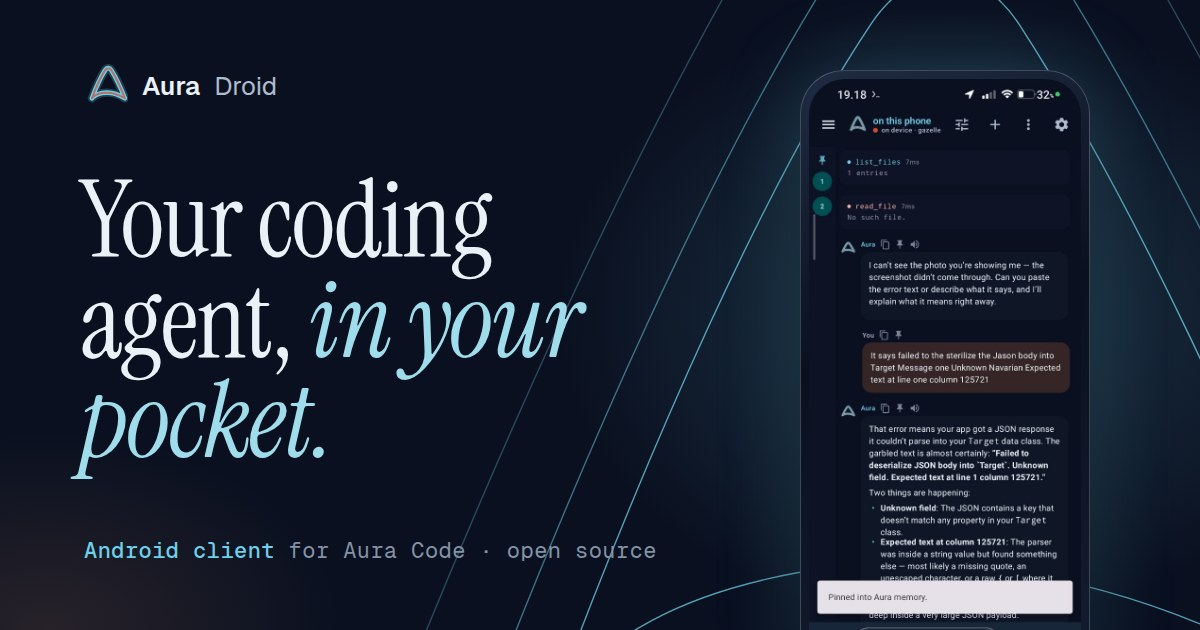
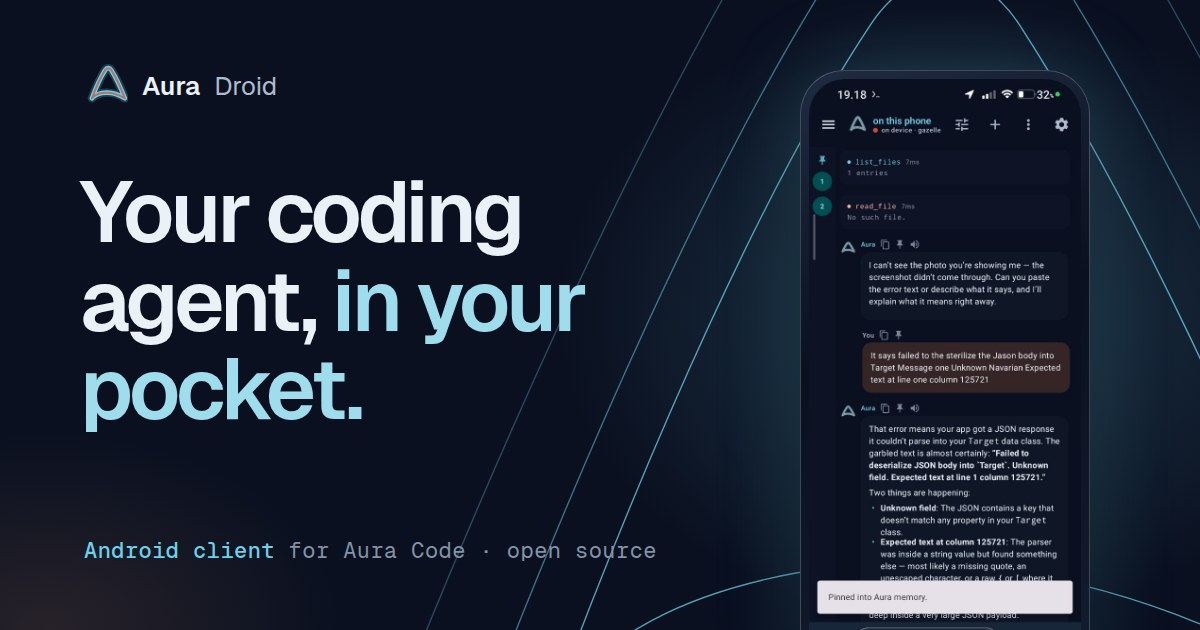
Modern site: straight, upright type instead of the serif and italics
Feedback: use a different, straighter font on the modern site.

- Headings move from Instrument Serif (with italic accents) to Geist 600 with
  tight tracking; accent phrases keep the cyan colour but no longer slant
- All display sizes retuned for the wider face; em is upright everywhere and
  bold where it emphasises a term in body copy
- Remove the now-unused Instrument Serif font files and preload
- Regenerate modern/og.jpg with the new headline

Only /modern/ changes; the root site and the retro edition are untouched.

Claude-Session: https://claude.ai/code/session_01PfWQs6xqarbYgne8YvJPWf

Changed region(s): [[0.0617, 0.2714, 0.4933, 0.754]]

diff --git a/modern/index.html b/modern/index.html
@@ -23,12 +23,9 @@
   <meta name="twitter:title" content="Aura Droid — Your coding agent, in your pocket.">
   <meta name="twitter:description" content="The Android client for Aura Code. Pair it with your PC or run it on the phone alone.">
   <meta name="twitter:image" content="https://aura-droid.vercel.app/modern/og.jpg?v=2">
-  <link rel="preload" href="/site-assets/fonts/instrument-serif.woff2" as="font" type="font/woff2" crossorigin>
   <link rel="preload" href="/site-assets/fonts/geist.woff2" as="font" type="font/woff2" crossorigin>
   <script>document.documentElement.classList.add('js')</script>
   <style>
-    @font-face { font-family: 'Instrument Serif'; font-style: normal; font-weight: 400; font-display: swap; src: url(/site-assets/fonts/instrument-serif.woff2) format('woff2'); }
-    @font-face { font-family: 'Instrument Serif'; font-style: italic; font-weight: 400; font-display: swap; src: url(/site-assets/fonts/instrument-serif-italic.woff2) format('woff2'); }
     @font-face { font-family: 'Geist'; font-style: normal; font-weight: 400 700; font-display: swap; src: url(/site-assets/fonts/geist.woff2) format('woff2'); }
     @font-face { font-family: 'Geist Mono'; font-style: normal; font-weight: 400 500; font-display: swap; src: url(/site-assets/fonts/geist-mono.woff2) format('woff2'); }
 
@@ -48,7 +45,6 @@
       --glow: #FFC08A;
       --line: rgba(174, 188, 205, .14);
       --line-2: rgba(174, 188, 205, .28);
-      --serif: 'Instrument Serif', 'Iowan Old Style', Georgia, serif;
       --sans: 'Geist', ui-sans-serif, system-ui, -apple-system, 'Segoe UI', Roboto, sans-serif;
       --mono: 'Geist Mono', ui-monospace, 'SF Mono', Menlo, Consolas, monospace;
       --wrap: 1180px;
@@ -76,9 +72,11 @@
     /* ── Type ──────────────────────────────────────────────────────────── */
     .eyebrow { display: inline-flex; align-items: center; gap: 10px; font: 500 12px/1 var(--mono); letter-spacing: .12em; text-transform: uppercase; color: var(--cyan); }
     .eyebrow::before { content: ''; width: 22px; height: 1px; background: currentColor; opacity: .7; }
-    .display { font-family: var(--serif); font-weight: 400; letter-spacing: -.015em; line-height: .98; }
-    .display em { font-style: italic; color: var(--cyan-soft); }
-    h2.display { font-size: clamp(40px, 5.6vw, 76px); }
+    .display { font-family: var(--sans); font-weight: 600; letter-spacing: -.045em; line-height: 1.02; }
+    em { font-style: normal; }
+    .note em, details p em { color: var(--cream); font-weight: 600; }
+    .display em { color: var(--cyan-soft); }
+    h2.display { font-size: clamp(34px, 4.8vw, 62px); }
     .lede { font-size: clamp(17px, 1.5vw, 19px); color: var(--dim); max-width: 54ch; }
     .mono { font-family: var(--mono); }
     .pill { display: inline-block; padding: 3px 8px; border: 1px solid var(--line-2); border-radius: 999px; font: 500 11px/1.3 var(--mono); letter-spacing: .04em; color: var(--copper); white-space: nowrap; vertical-align: middle; }
@@ -112,7 +110,7 @@
       radial-gradient(60% 55% at 78% 42%, rgba(110, 208, 234, .13), transparent 70%),
       radial-gradient(40% 40% at 8% 96%, rgba(217, 142, 99, .10), transparent 70%); pointer-events: none; }
     .hero-grid { position: relative; display: grid; grid-template-columns: minmax(0, 1.08fr) minmax(0, .92fr); gap: clamp(24px, 4vw, 64px); align-items: center; }
-    .hero h1 { margin: 22px 0 26px; font-size: clamp(56px, 8.4vw, 124px); }
+    .hero h1 { margin: 22px 0 26px; font-size: clamp(46px, 6.9vw, 98px); }
     .hero .lede { max-width: 46ch; }
     .hero-cta { display: flex; flex-wrap: wrap; gap: 12px; margin-top: 36px; }
     .facts { display: flex; flex-wrap: wrap; gap: 8px; margin-top: 32px; }
@@ -151,7 +149,7 @@
     .strip { border-block: 1px solid var(--line); background: rgba(16, 26, 44, .5); }
     .strip-in { display: flex; flex-wrap: wrap; align-items: center; gap: 14px 40px; padding: 22px 0; }
     .strip-label { font: 500 12px/1.3 var(--mono); letter-spacing: .1em; text-transform: uppercase; color: var(--mute); }
-    .strip ul { display: flex; flex-wrap: wrap; gap: 8px 30px; font: italic 400 24px/1.2 var(--serif); color: var(--dim); }
+    .strip ul { display: flex; flex-wrap: wrap; gap: 8px 30px; font: 500 19px/1.3 var(--sans); letter-spacing: -.02em; color: var(--dim); }
     .strip .more { font: 400 13px/1.3 var(--mono); color: var(--mute); margin-left: auto; }
 
     /* ── Sections ──────────────────────────────────────────────────────── */
@@ -176,7 +174,7 @@
     .js .chapter { opacity: .68; }
     .js .chapter.on { opacity: 1; }
     .chapter .num { font: 500 13px/1 var(--mono); letter-spacing: .1em; color: var(--glow); }
-    .chapter h3 { font: 400 clamp(38px, 4.4vw, 60px)/1 var(--serif); letter-spacing: -.015em; max-width: 14ch; }
+    .chapter h3 { font: 600 clamp(30px, 3.5vw, 46px)/1.06 var(--sans); letter-spacing: -.042em; max-width: 16ch; }
     .chapter h3 em { color: var(--cyan-soft); }
     .chapter p { color: var(--dim); max-width: 44ch; }
     .tags { display: flex; flex-wrap: wrap; gap: 8px; }
@@ -188,7 +186,7 @@
     .rt { display: flex; flex-direction: column; gap: 28px; padding: clamp(24px, 3vw, 40px); border: 1px solid var(--line); border-radius: 28px; background: linear-gradient(170deg, var(--ink-2), rgba(16, 26, 44, .35)); }
     .rt:hover { border-color: var(--line-2); }
     .rt-tag { font: 500 12px/1 var(--mono); letter-spacing: .1em; text-transform: uppercase; color: var(--copper); }
-    .rt h3 { font: 400 clamp(32px, 3.4vw, 46px)/1.02 var(--serif); letter-spacing: -.01em; margin-top: 12px; }
+    .rt h3 { font: 600 clamp(25px, 2.6vw, 34px)/1.1 var(--sans); letter-spacing: -.038em; margin-top: 12px; }
     .rt h3 em { color: var(--cyan-soft); }
     .diagram { display: flex; align-items: center; gap: 0; padding: 22px 18px; border: 1px dashed var(--line-2); border-radius: 18px; background: rgba(10, 16, 32, .55); }
     .node { flex: none; display: grid; gap: 4px; justify-items: center; min-width: 108px; padding: 14px 12px; border: 1px solid var(--line-2); border-radius: 14px; background: var(--ink-2); text-align: center; }
@@ -241,7 +239,7 @@
     .cell { display: grid; align-content: start; gap: 12px; padding: 30px 26px 34px; border-right: 1px solid var(--line); border-bottom: 1px solid var(--line); transition: background .25s; }
     .cell:hover { background: rgba(110, 208, 234, .045); }
     .cell svg { width: 26px; height: 26px; fill: none; stroke: var(--cyan); stroke-width: 1.6; stroke-linecap: round; stroke-linejoin: round; }
-    .cell h3 { margin-top: 10px; font: 400 27px/1.05 var(--serif); }
+    .cell h3 { margin-top: 10px; font: 600 20px/1.15 var(--sans); letter-spacing: -.025em; }
     .cell p { color: var(--dim); font-size: 15px; line-height: 1.55; }
 
     /* ── Demo video ────────────────────────────────────────────────────── */
@@ -274,7 +272,7 @@
     .steps { display: grid; grid-template-columns: repeat(3, 1fr); gap: 14px; margin-top: clamp(32px, 5vw, 56px); counter-reset: st; }
     .steps li { position: relative; padding: 22px 22px 24px; border: 1px solid var(--line); border-radius: 20px; background: rgba(10, 16, 32, .4); counter-increment: st; }
     .steps li::before { content: '0' counter(st); display: block; margin-bottom: 12px; font: 500 12px/1 var(--mono); color: var(--copper); letter-spacing: .1em; }
-    .steps b { display: block; margin-bottom: 6px; font: 400 25px/1.1 var(--serif); }
+    .steps b { display: block; margin-bottom: 6px; font: 600 20px/1.2 var(--sans); letter-spacing: -.025em; }
     .steps p { color: var(--dim); font-size: 14.5px; line-height: 1.55; }
     .note { display: grid; gap: 12px; margin-top: 18px; padding: 16px 20px; border: 1px solid var(--line); border-left: 2px solid var(--copper); border-radius: 0 14px 14px 0; background: rgba(217, 142, 99, .06); color: var(--dim); font-size: 14.5px; line-height: 1.55; }
     .note b { color: var(--glow); font-weight: 500; }
@@ -286,7 +284,7 @@
     .faq-grid .display { margin-top: 20px; }
     details { border-bottom: 1px solid var(--line); }
     details:first-child { border-top: 1px solid var(--line); }
-    summary { display: flex; align-items: center; justify-content: space-between; gap: 20px; padding: 24px 0; list-style: none; cursor: pointer; font: 400 clamp(22px, 2.3vw, 28px)/1.2 var(--serif); }
+    summary { display: flex; align-items: center; justify-content: space-between; gap: 20px; padding: 24px 0; list-style: none; cursor: pointer; font: 600 clamp(18px, 2vw, 22px)/1.3 var(--sans); letter-spacing: -.025em; }
     summary::-webkit-details-marker { display: none; }
     summary::after { content: '+'; flex: none; display: grid; place-items: center; width: 32px; height: 32px; border: 1px solid var(--line-2); border-radius: 50%; font: 400 20px/1 var(--sans); color: var(--cyan); transition: transform .3s, background .3s; }
     details[open] summary::after { transform: rotate(45deg); background: rgba(110, 208, 234, .12); }
